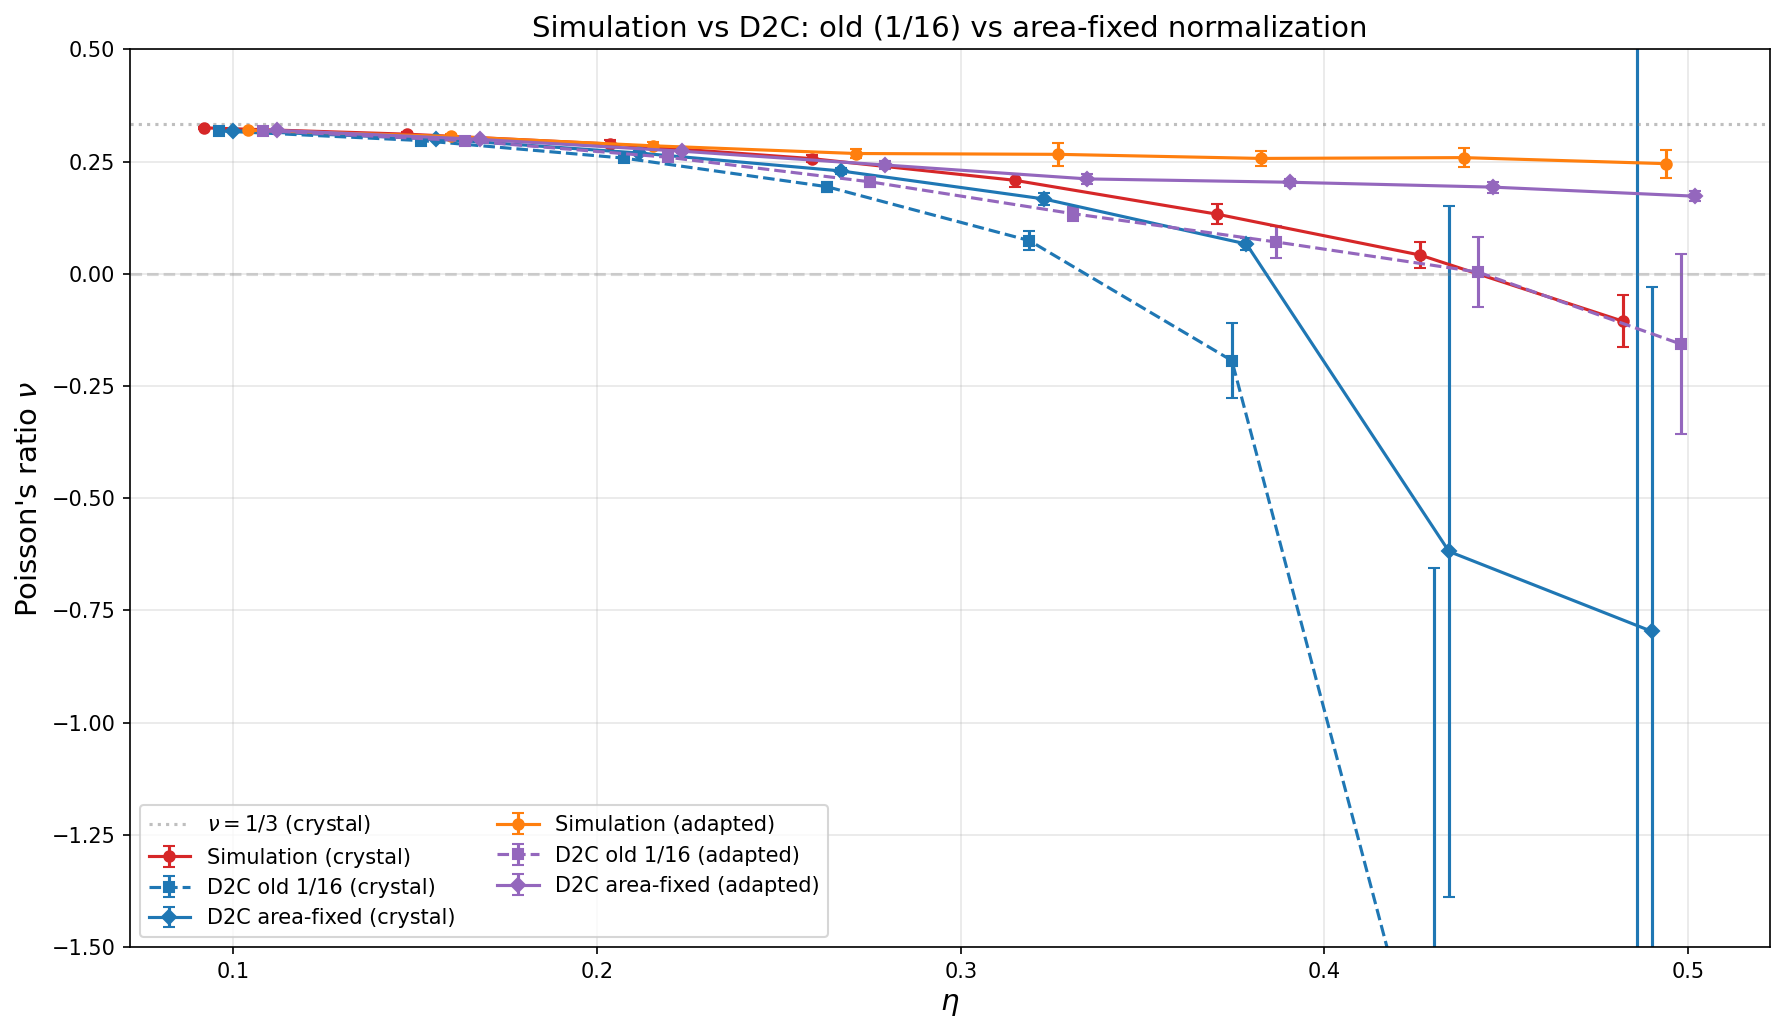
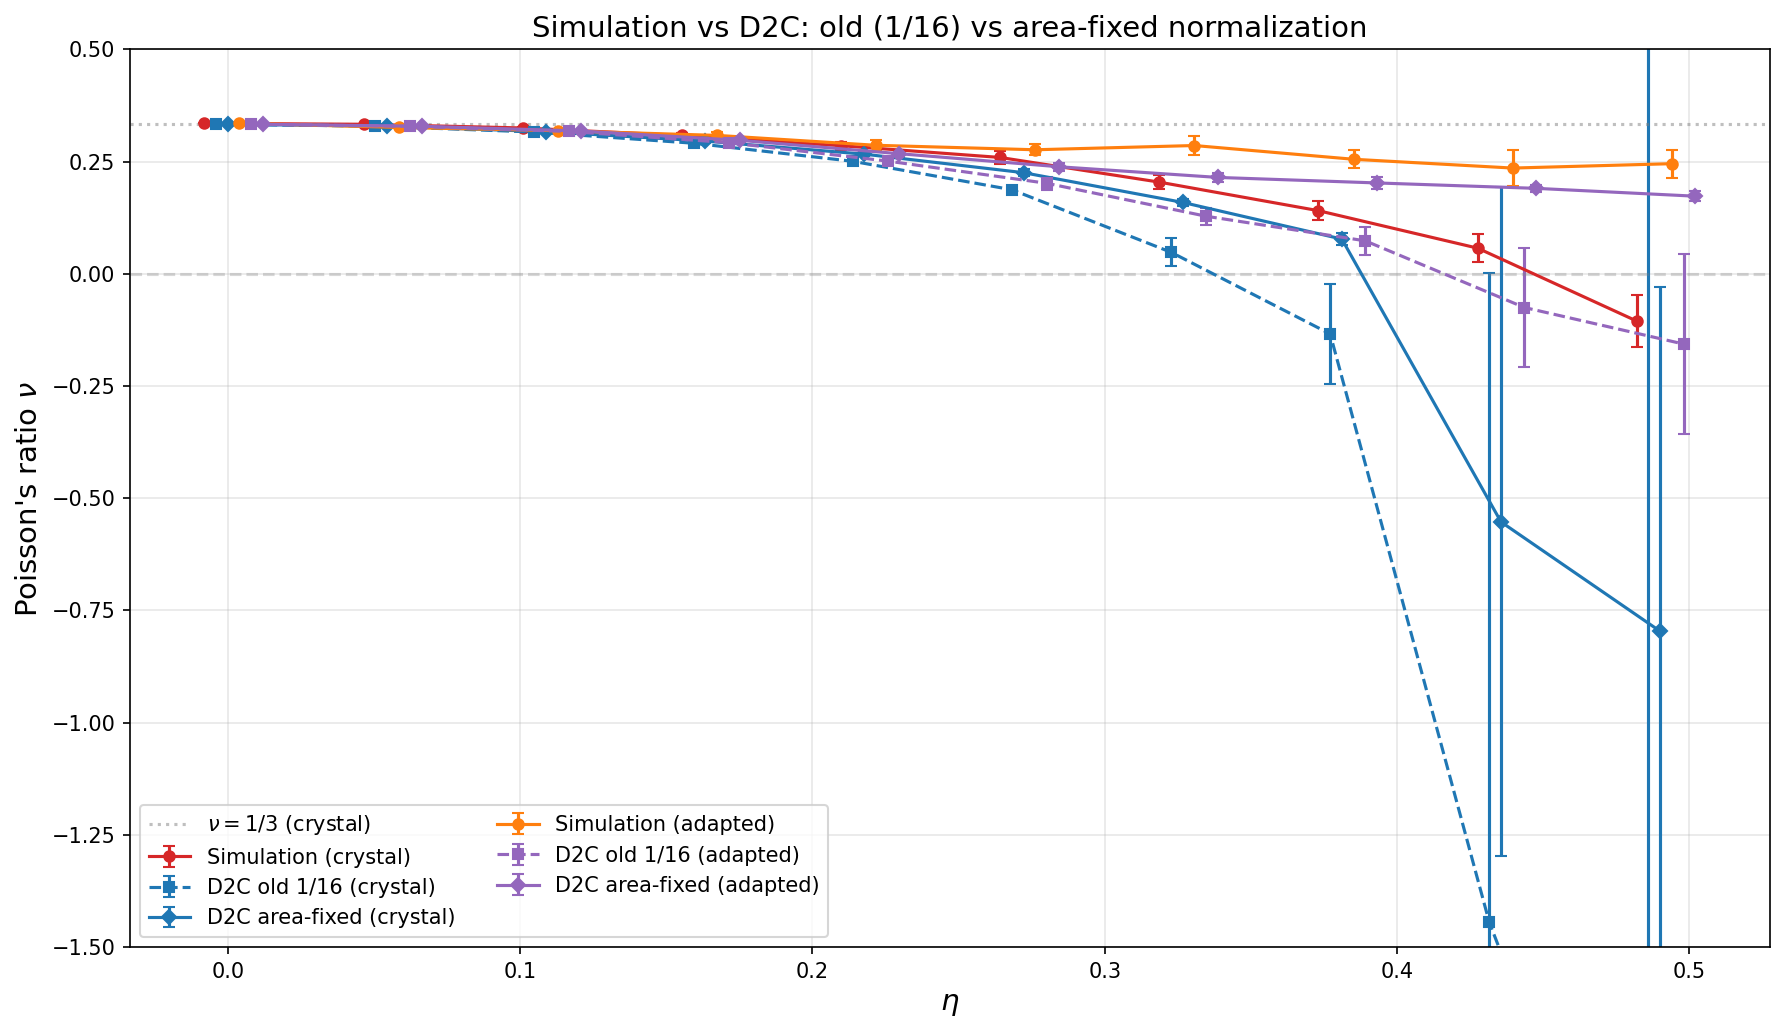
Update comparison plot: 10 eta values from 0 to 0.49
https://claude.ai/code/session_012BCNAgQJJpX3KMYRzgV7Uy

diff --git a/benchmarking/run_area_fix_comparison.py b/benchmarking/run_area_fix_comparison.py
@@ -218,7 +218,7 @@ def d2c_old_prefix(triangulation):
 
 strip_size = (20, 6)
 square_half = 6.0
-etas = np.linspace(0.1, 0.49, 8)
+etas = np.linspace(0.0, 0.49, 10)
 n_trials = 10
 strain = 0.01
 
